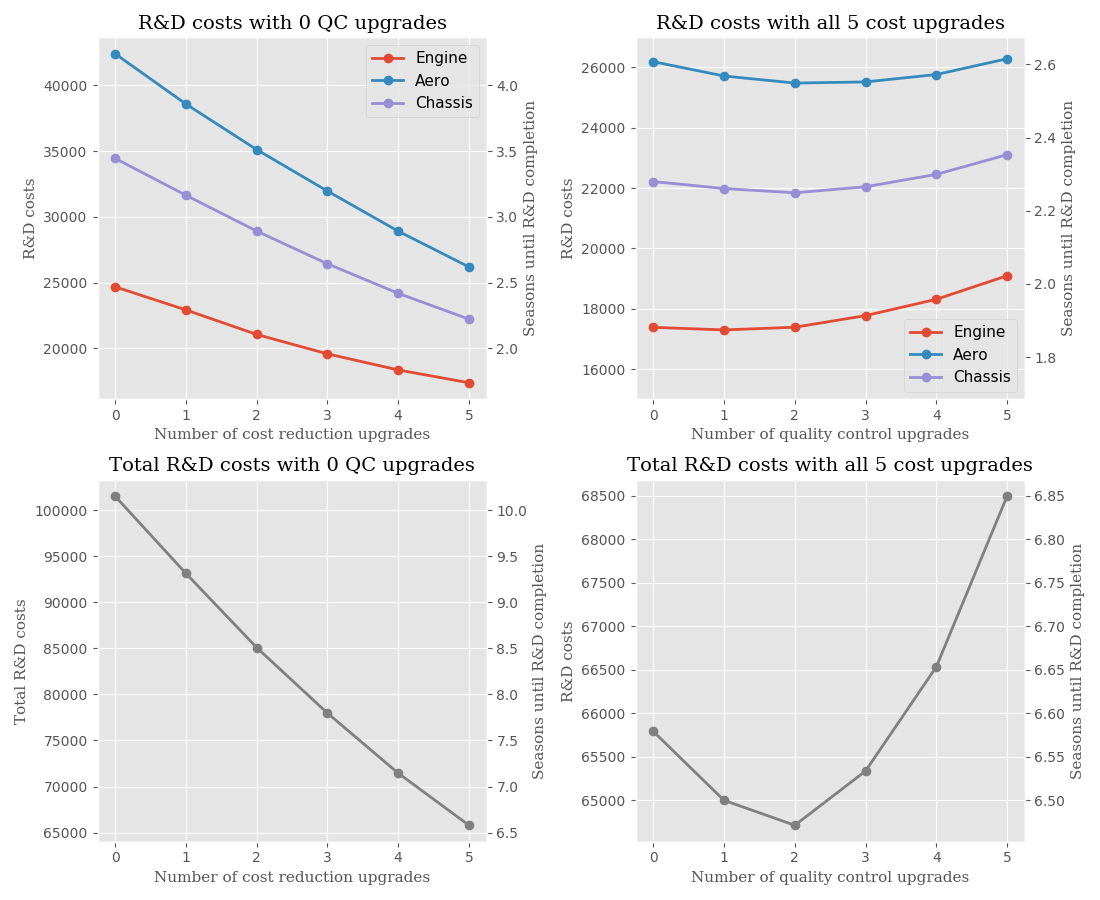
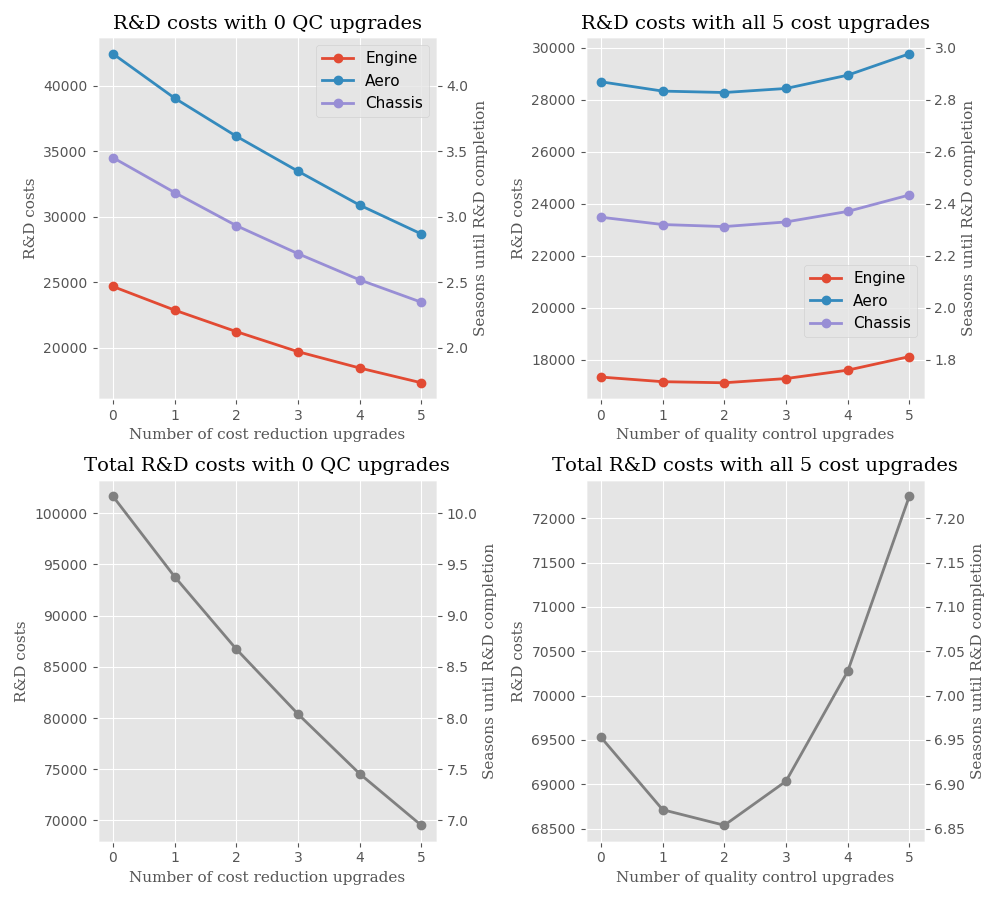
Updated rnd_department.py with correct cost and wuality upgrade costs. Also added new example results.

diff --git a/rnd_statistics.py b/rnd_statistics.py
@@ -14,7 +14,7 @@ import numpy as np
 import matplotlib.pyplot as plt
 
 plt.style.use("ggplot")
-fig = plt.figure(figsize = (11, 9))
+fig = plt.figure(figsize = (10, 9))
 ax_1 = fig.add_subplot(2, 2, 1)
 ax_15 = ax_1.twinx()
 ax_2 = fig.add_subplot(2, 2, 2)
@@ -92,22 +92,21 @@ for curr_dep_type in dp.Department.departments:     # For each department
 
 stats_str += "\n\n\nTotal amount of resource points needed for full R&D completion"
 stats_str += "\n--------------------------------------------------------------"
-stats_str += "\nUsing most expensive path:"
+stats_str += "\nUsing most expensive development path:"
 stats_str += "\nTotal costs:\t{:>10.0f}".format(max_cost_all_dep)
 stats_str += "\nWeekends:\t{:>10.0f}".format(max_cost_all_dep/rpoints_per_weekend)
 stats_str += "\nSeasons:\t{:>10.1f}".format(max_cost_all_dep/(rpoints_per_weekend*num_race_weekends))
 
-stats_str += "\n\nUsing least expensive path:"
+stats_str += "\n\nUsing least expensive development path:"
 stats_str += "\nTotal costs:\t{:>10.0f}".format(min_cost_all_dep)
 stats_str += "\nWeekends:\t{:>10.0f}".format(min_cost_all_dep/rpoints_per_weekend)
 stats_str += "\nSeasons:\t{:>10.1f}".format(min_cost_all_dep/(rpoints_per_weekend*num_race_weekends))
 
 print(stats_str)
 
-with open("results_txt.txt", "w") as result_file:
+with open("results_text.txt", "w") as result_file:
     result_file.write(stats_str)    # Write result stats string to file
 
-#ax_1.set_ylim(15500, 27000)
 ax_1.set_xlabel("Number of cost reduction upgrades", fontname = "serif", fontsize = 11)
 ax_1.set_ylabel("R&D costs", fontname = "serif", fontsize = 11)
 ax_1.set_title("R&D costs with 0 QC upgrades", fontname = "serif", fontsize = 14)
@@ -115,17 +114,16 @@ ax_1.legend(loc = "upper right", fontsize = 11)
 ax_15.grid(False)
 ax_15.set_ylabel("Seasons until R&D completion", fontname = "serif", fontsize = 11)
 
-ax_2.set_ylim(15000, 27000)
 ax_2.set_xlabel("Number of quality control upgrades", fontname = "serif", fontsize = 11)
 ax_2.set_ylabel("R&D costs", fontname = "serif", fontsize = 11)
 ax_2.set_title("R&D costs with all 5 cost upgrades", fontname = "serif", fontsize = 14)
-ax_2.legend(loc = "lower right", fontsize = 11)
+ax_2.legend(bbox_to_anchor = (1, 0.15), loc = "lower right", fontsize = 11)
 ax_25.grid(False)
 ax_25.set_ylabel("Seasons until R&D completion", fontname = "serif", fontsize = 11)
 
 ax_3.plot(cost_upgrades, tt_costs_1, marker = "o", linewidth = 2, color = "gray")
 ax_3.set_xlabel("Number of cost reduction upgrades", fontname = "serif", fontsize = 11)
-ax_3.set_ylabel("Total R&D costs", fontname = "serif", fontsize = 11)
+ax_3.set_ylabel("R&D costs", fontname = "serif", fontsize = 11)
 ax_3.set_title("Total R&D costs with 0 QC upgrades", fontname = "serif", fontsize = 14)
 ax_35.plot(cost_upgrades, tt_costs_1/(rpoints_per_weekend*num_race_weekends), alpha = 0.0)
 ax_35.grid(False)
@@ -140,5 +138,5 @@ ax_45.grid(False)
 ax_45.set_ylabel("Seasons until R&D completion", fontname = "serif", fontsize = 11)
 
 fig.tight_layout()
-fig.savefig("results_viz.png")
+fig.savefig("results_visual.png")
 plt.show()

diff --git a/rnd_department.py b/rnd_department.py
@@ -21,17 +21,17 @@ class Department(object):
 
         if (department_type == Department.departments[0]):
             self.upgrades = {"minor": 9, "major": 4, "ultimate": 2}
-            self.cost_upg_costs = [500.0, 750.0, 1000.0, 1250.0, 1500.0]
-            self.fail_upg_costs = [400.0, 600.0, 800.0, 1000.0, 1200.0]
+            self.cost_upg_costs = [600.0, 800.0, 1000.0, 1200.0, 1400.0]
+            self.fail_upg_costs = [300.0, 450.0, 600.0, 750.0, 900.0]
 
         elif (department_type == Department.departments[1]):
             self.upgrades = {"minor": 16, "major": 7, "ultimate": 3}
-            self.cost_upg_costs = [500.0, 750.0, 1000.0, 1250.0, 1500.0]
-            self.fail_upg_costs = [400.0, 600.0, 800.0, 1000.0, 1200.0]
+            self.cost_upg_costs = [1000.0, 1250.0, 1500.0, 1750.0, 2000.0]
+            self.fail_upg_costs = [500.0, 750.0, 1000.0, 1250.0, 1500.0]
 
         elif (department_type == Department.departments[2]):
             self.upgrades = {"minor": 13, "major": 5, "ultimate": 3}
-            self.cost_upg_costs = [500.0, 750.0, 1000.0, 1250.0, 1500.0]
+            self.cost_upg_costs = [750.0, 1000.0, 1250.0, 1500.0, 1750.0]
             self.fail_upg_costs = [400.0, 600.0, 800.0, 1000.0, 1200.0]
 
         self.upg_costs = {upg_type : upg_cost - self.cost_reduc*self.p_cost_reduc*upg_cost
